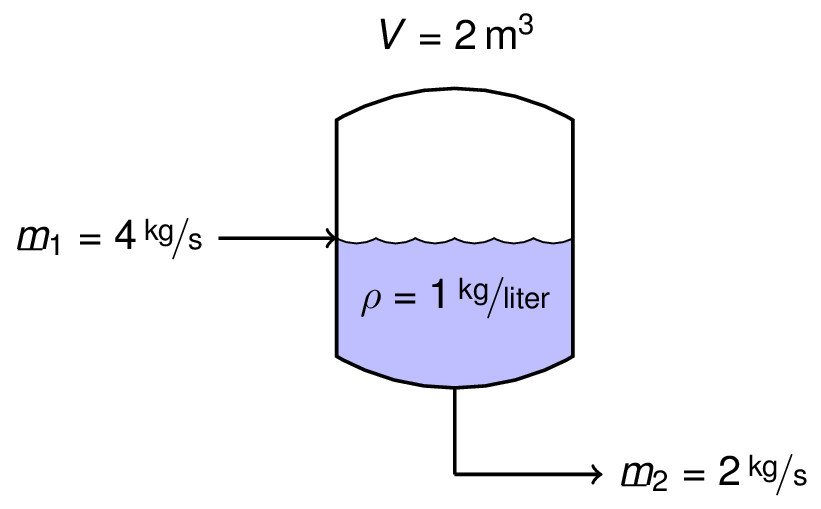
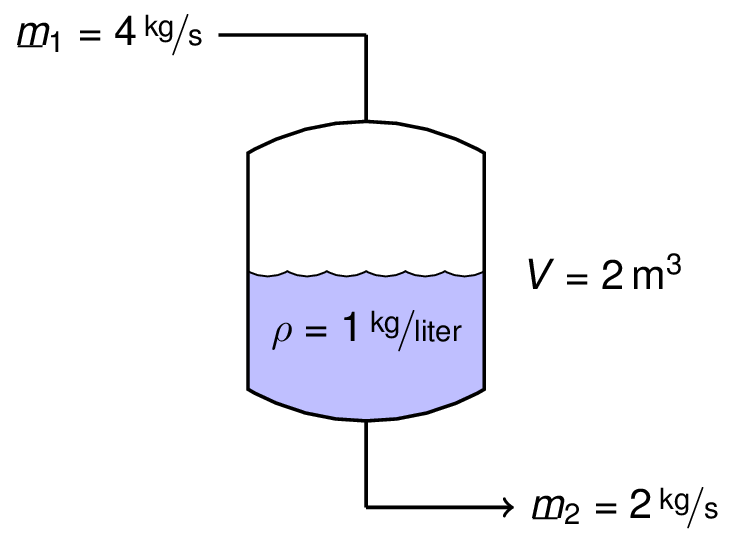
Add root finding procedure to Single Tank example.

diff --git a/notebooks/images/water_tank.tex b/notebooks/images/water_tank.tex
@@ -24,16 +24,18 @@
     arc(-60:-120:0.333cm) arc(-60:-120:0.334cm) arc(-60:-120:0.333cm);
   \draw[thick] (drum) --++(0,-1) arc (240:300:2cm)
     -- ++(0,2) arc (60:120:2cm) -- ++(0,-1);
+  \draw[thick] (drum) ++(1,1.268) -- ++(0,0.732); 
   \draw[thick] (drum) ++(1,-1.268) --++ (0,-0.732);
   
   % connecting the units
-  \draw[->,thick] (feed) node [left] 
-    {$\dot{m}_1 = \unitfrac[4]{kg}{s}$} -- (drum);
+  %\draw[->,thick] (feed) node [left] {$\dot{m}_1 = \unitfrac[4]{kg}{s}$} -- (drum);
+  \draw[thick] (drum) ++ (1,2) -- ++(-1.25,0) 
+    node [left] {$\dot{m}_1 = \unitfrac[4]{kg}{s}$};
   \draw[->,thick] (drum) ++ (1,-2) -- ++(1.25,0) 
     node [right] {$\dot{m}_2 = \unitfrac[2]{kg}{s}$};
   
   % label units
-  \draw (drum) ++ (1,1.75) node {\shortstack{$V=\unit[2]{m^3}$}};
+  \draw (drum) ++ (3,0) node {\shortstack{$V=\unit[2]{m^3}$}};
   \draw (drum) ++ (1,-0.5) node {$\rho = \unitfrac[1]{kg}{liter}$};
   
 \end{tikzpicture}
